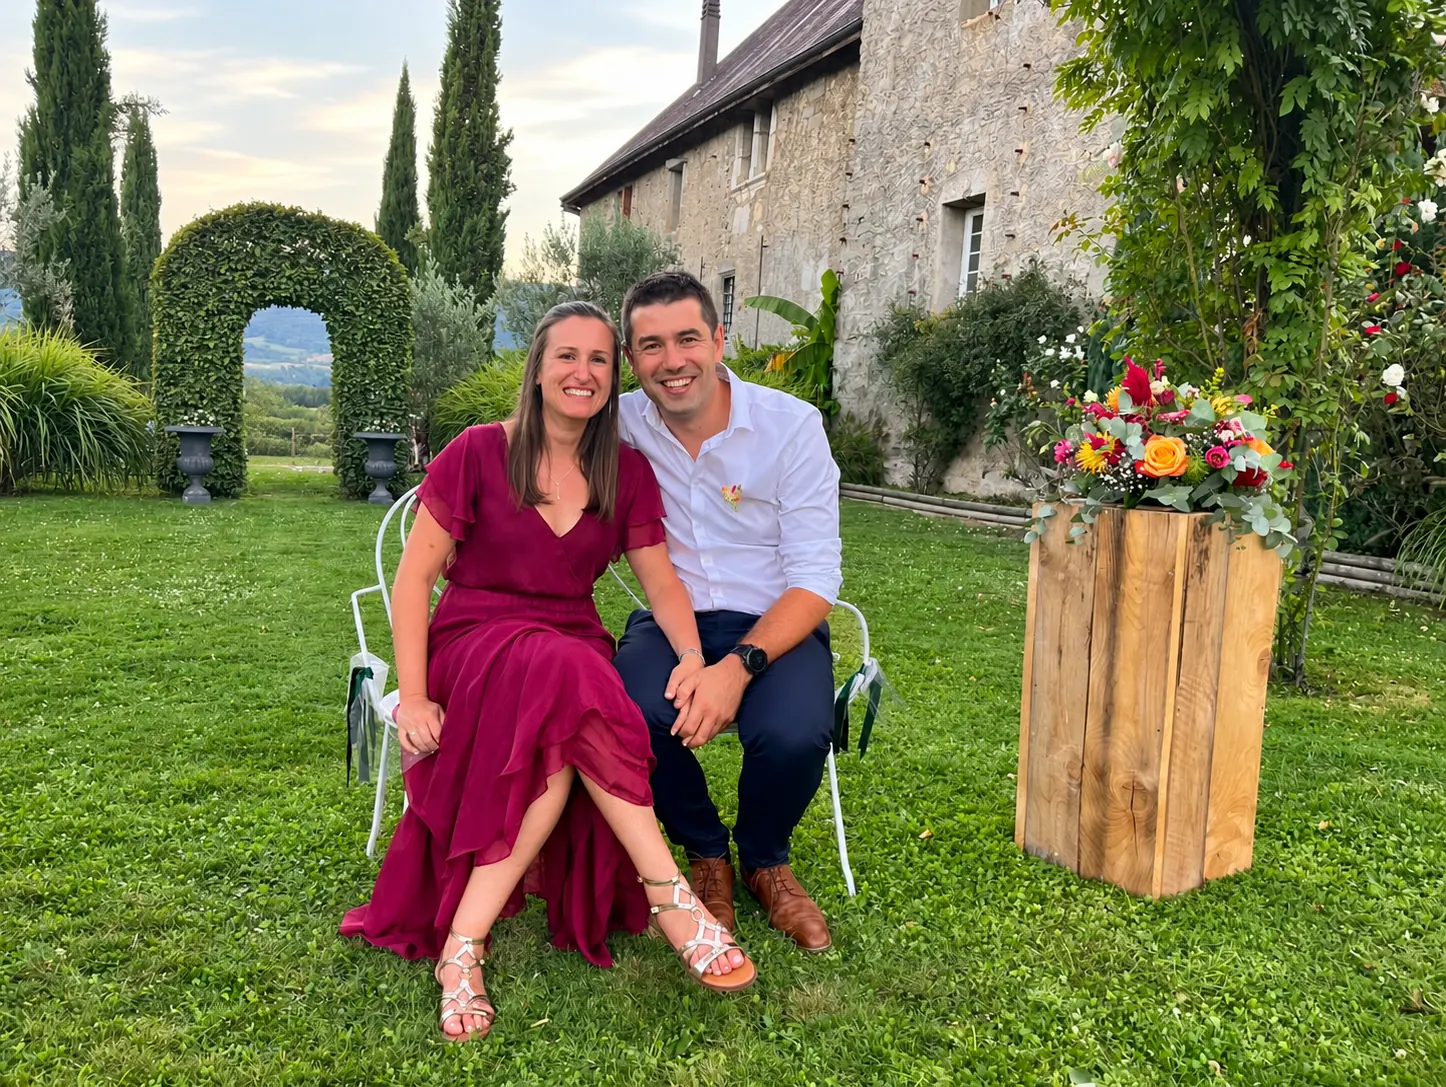
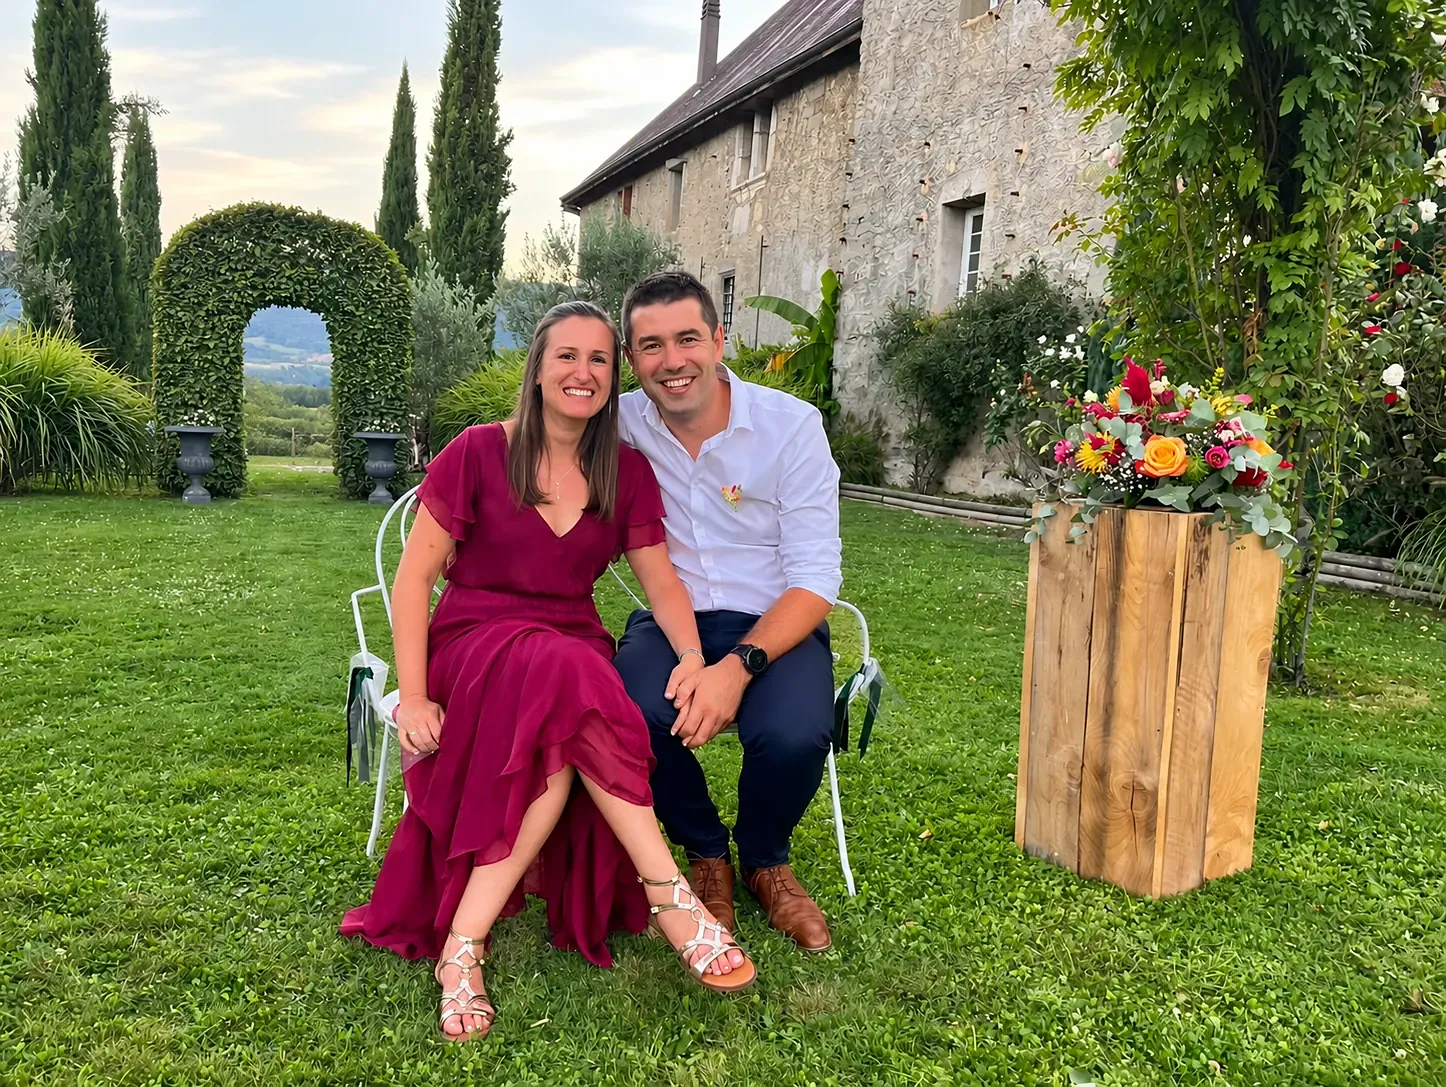
Photo plein écran plus nette ; « Rendez-vous » ne s'affiche plus avant l'ouverture
- Photo du jardin : nouvelles tailles jusqu'à 2560 px, agrandies avec un
  mélange discret d'IA (35 %) pour rester fidèle aux visages, et « sizes »
  qui tient compte du zoom de l'arche et du recadrage en portrait.
- Texte « Rendez-vous » : son opacité suit le défilement, comme l'arche ;
  il ne reste plus visible sur le fond crème quand on remonte vite.
- Skill : script agrandir_photo.py et pièges documentés.

Claude-Session: https://claude.ai/code/session_01HAWTPvL4dY7Bnksh8r4g53

Changed region(s): [[0.9959, 0.0304, 1.0, 0.0607], [0.0, 0.3643, 0.0311, 0.3947]]

diff --git a/.claude/skills/site-mariage-premium/assets/starter/assets/js/main.js b/.claude/skills/site-mariage-premium/assets/starter/assets/js/main.js
@@ -721,12 +721,15 @@
           { scale: 1.25, x: () => { const f = focus(); return f.w / 2 - f.x; }, y: () => { const f = focus(); return f.h * 0.46 - f.y; }, transformOrigin: origin },
           { scale: 1, x: 0, y: 0, transformOrigin: origin, ease: "power2.inOut", duration: 1 }, 0)
         .to($(".reveal-photo__scrim", sec), { opacity: 1, ease: "none", duration: 0.45 }, 0.55);
+      // Le bloc de texte suit le défilement, comme l'arche et le voile : il ne peut jamais rester visible
+      // sur le fond crème quand on remonte vite (l'écriture elle-même se joue dans la chronologie `t`).
+      const textBox = $("[data-rp-text]", sec);
+      if (textBox) tl.fromTo(textBox, { opacity: 0 }, { opacity: 1, ease: "none", duration: 0.1 }, 0.52);
       img.addEventListener("load", () => ST.refresh(), { once: true });
 
       // Texte : écrit à l’encre une fois la photo presque déployée, effacé en remontant
       const text = $("[data-rp-text]", sec);
       if (!text) return;
-      gsap.set(text, { opacity: 1 });
       const words = $$(".rp-w > span", text);
       const t = gsap.timeline({ paused: true, defaults: { ease: "power3.out" } })
         .fromTo($(".rp-over", text), { opacity: 0, letterSpacing: "1em" }, { opacity: 1, letterSpacing: "0.42em", duration: 1.5 }, 0)
@@ -738,7 +741,7 @@
         trigger: sec, invalidateOnRefresh: true,
         start: () => `top+=${Math.round((sec.offsetHeight - window.innerHeight) * 0.62)} top`,
         onEnter: () => t.timeScale(1).play(),
-        onLeaveBack: () => t.timeScale(2).reverse(),
+        onLeaveBack: () => t.timeScale(3).reverse(),
       });
       if (window.scrollY > st.start) t.progress(1); // arrivée directe plus bas (ancre, retour arrière)
     });

diff --git a/assets/js/main.js b/assets/js/main.js
@@ -721,12 +721,15 @@
           { scale: 1.25, x: () => { const f = focus(); return f.w / 2 - f.x; }, y: () => { const f = focus(); return f.h * 0.46 - f.y; }, transformOrigin: origin },
           { scale: 1, x: 0, y: 0, transformOrigin: origin, ease: "power2.inOut", duration: 1 }, 0)
         .to($(".reveal-photo__scrim", sec), { opacity: 1, ease: "none", duration: 0.45 }, 0.55);
+      // Le bloc de texte suit le défilement, comme l'arche et le voile : il ne peut jamais rester visible
+      // sur le fond crème quand on remonte vite (l'écriture elle-même se joue dans la chronologie `t`).
+      const textBox = $("[data-rp-text]", sec);
+      if (textBox) tl.fromTo(textBox, { opacity: 0 }, { opacity: 1, ease: "none", duration: 0.1 }, 0.52);
       img.addEventListener("load", () => ST.refresh(), { once: true });
 
       // Texte : écrit à l’encre une fois la photo presque déployée, effacé en remontant
       const text = $("[data-rp-text]", sec);
       if (!text) return;
-      gsap.set(text, { opacity: 1 });
       const words = $$(".rp-w > span", text);
       const t = gsap.timeline({ paused: true, defaults: { ease: "power3.out" } })
         .fromTo($(".rp-over", text), { opacity: 0, letterSpacing: "1em" }, { opacity: 1, letterSpacing: "0.42em", duration: 1.5 }, 0)
@@ -738,7 +741,7 @@
         trigger: sec, invalidateOnRefresh: true,
         start: () => `top+=${Math.round((sec.offsetHeight - window.innerHeight) * 0.62)} top`,
         onEnter: () => t.timeScale(1).play(),
-        onLeaveBack: () => t.timeScale(2).reverse(),
+        onLeaveBack: () => t.timeScale(3).reverse(),
       });
       if (window.scrollY > st.start) t.progress(1); // arrivée directe plus bas (ancre, retour arrière)
     });

diff --git a/.claude/skills/site-mariage-premium/assets/starter/index.html b/.claude/skills/site-mariage-premium/assets/starter/index.html
@@ -200,8 +200,8 @@
       <div class="reveal-photo__sticky">
         <div class="reveal-photo__frame" data-cursor-heart data-heart-focus="0.433 0.325" data-heart-reach="0.4">
           <img src="assets/img/photos/couple-jardin-1024.webp"
-               srcset="assets/img/photos/couple-jardin-640.webp 640w, assets/img/photos/couple-jardin-1024.webp 1024w, assets/img/photos/couple-jardin-1446.webp 1446w"
-               sizes="100vw" width="1024" height="770" loading="lazy" decoding="async"
+               srcset="assets/img/photos/couple-jardin-640.webp 640w, assets/img/photos/couple-jardin-1024.webp 1024w, assets/img/photos/couple-jardin-1446.webp 1446w, assets/img/photos/couple-jardin-1920.webp 1920w, assets/img/photos/couple-jardin-2560.webp 2560w"
+               sizes="(orientation: portrait) 166vh, 125vw" width="1024" height="770" loading="lazy" decoding="async"
                alt="Clémentine et Romain assis côte à côte dans un jardin fleuri, souriants">
         </div>
         <div class="reveal-photo__scrim" aria-hidden="true"></div>
@@ -683,7 +683,7 @@
   <script src="assets/vendor/ScrollTrigger.min.js?v=05ca5ad8" defer></script>
   <script src="assets/vendor/SplitText.min.js?v=6c4c7716" defer></script>
   <script src="assets/vendor/lenis.min.js?v=b5cf15f0" defer></script>
-  <script src="assets/js/main.js?v=d7b5e164" defer></script>
+  <script src="assets/js/main.js?v=a254e06a" defer></script>
   <!-- SCRIPTS:END -->
 </body>
 </html>

diff --git a/index.html b/index.html
@@ -206,8 +206,8 @@
       <div class="reveal-photo__sticky">
         <div class="reveal-photo__frame" data-cursor-heart data-heart-focus="0.433 0.325" data-heart-reach="0.4">
           <img src="assets/img/photos/couple-jardin-1024.webp"
-               srcset="assets/img/photos/couple-jardin-640.webp 640w, assets/img/photos/couple-jardin-1024.webp 1024w, assets/img/photos/couple-jardin-1446.webp 1446w"
-               sizes="100vw" width="1024" height="770" loading="lazy" decoding="async"
+               srcset="assets/img/photos/couple-jardin-640.webp 640w, assets/img/photos/couple-jardin-1024.webp 1024w, assets/img/photos/couple-jardin-1446.webp 1446w, assets/img/photos/couple-jardin-1920.webp 1920w, assets/img/photos/couple-jardin-2560.webp 2560w"
+               sizes="(orientation: portrait) 166vh, 125vw" width="1024" height="770" loading="lazy" decoding="async"
                alt="Clémentine et Romain assis côte à côte dans un jardin fleuri, souriants">
         </div>
         <div class="reveal-photo__scrim" aria-hidden="true"></div>
@@ -689,7 +689,7 @@
   <script src="assets/vendor/ScrollTrigger.min.js?v=05ca5ad8" defer></script>
   <script src="assets/vendor/SplitText.min.js?v=6c4c7716" defer></script>
   <script src="assets/vendor/lenis.min.js?v=b5cf15f0" defer></script>
-  <script src="assets/js/main.js?v=d7b5e164" defer></script>
+  <script src="assets/js/main.js?v=a254e06a" defer></script>
   <!-- SCRIPTS:END -->
 </body>
 </html>

diff --git a/.claude/skills/site-mariage-premium/assets/starter/environs.html b/.claude/skills/site-mariage-premium/assets/starter/environs.html
@@ -405,7 +405,7 @@
   <script src="assets/vendor/ScrollTrigger.min.js?v=05ca5ad8" defer></script>
   <script src="assets/vendor/SplitText.min.js?v=6c4c7716" defer></script>
   <script src="assets/vendor/lenis.min.js?v=b5cf15f0" defer></script>
-  <script src="assets/js/main.js?v=d7b5e164" defer></script>
+  <script src="assets/js/main.js?v=a254e06a" defer></script>
   <!-- SCRIPTS:END -->
   <script src="assets/vendor/leaflet/leaflet.js?v=1db10cdc" defer></script>
   <script src="assets/js/environs.js?v=7eb4e732" defer></script>

diff --git a/environs.html b/environs.html
@@ -410,7 +410,7 @@
   <script src="assets/vendor/ScrollTrigger.min.js?v=05ca5ad8" defer></script>
   <script src="assets/vendor/SplitText.min.js?v=6c4c7716" defer></script>
   <script src="assets/vendor/lenis.min.js?v=b5cf15f0" defer></script>
-  <script src="assets/js/main.js?v=d7b5e164" defer></script>
+  <script src="assets/js/main.js?v=a254e06a" defer></script>
   <!-- SCRIPTS:END -->
   <script src="assets/vendor/leaflet/leaflet.js?v=1db10cdc" defer></script>
   <script src="assets/js/environs.js?v=7eb4e732" defer></script>

diff --git a/.claude/skills/site-mariage-premium/assets/starter/404.html b/.claude/skills/site-mariage-premium/assets/starter/404.html
@@ -168,7 +168,7 @@
   <script src="assets/vendor/ScrollTrigger.min.js?v=05ca5ad8" defer></script>
   <script src="assets/vendor/SplitText.min.js?v=6c4c7716" defer></script>
   <script src="assets/vendor/lenis.min.js?v=b5cf15f0" defer></script>
-  <script src="assets/js/main.js?v=d7b5e164" defer></script>
+  <script src="assets/js/main.js?v=a254e06a" defer></script>
   <!-- SCRIPTS:END -->
   <script>
     /* Avec <base>, « #contenu » pointerait vers l’accueil : les ancres restent sur cette page */

diff --git a/404.html b/404.html
@@ -173,7 +173,7 @@
   <script src="assets/vendor/ScrollTrigger.min.js?v=05ca5ad8" defer></script>
   <script src="assets/vendor/SplitText.min.js?v=6c4c7716" defer></script>
   <script src="assets/vendor/lenis.min.js?v=b5cf15f0" defer></script>
-  <script src="assets/js/main.js?v=d7b5e164" defer></script>
+  <script src="assets/js/main.js?v=a254e06a" defer></script>
   <!-- SCRIPTS:END -->
   <script>
     /* Avec <base>, « #contenu » pointerait vers l’accueil : les ancres restent sur cette page */

diff --git a/.claude/skills/site-mariage-premium/assets/starter/rsvp.html b/.claude/skills/site-mariage-premium/assets/starter/rsvp.html
@@ -267,7 +267,7 @@
   <script src="assets/vendor/ScrollTrigger.min.js?v=05ca5ad8" defer></script>
   <script src="assets/vendor/SplitText.min.js?v=6c4c7716" defer></script>
   <script src="assets/vendor/lenis.min.js?v=b5cf15f0" defer></script>
-  <script src="assets/js/main.js?v=d7b5e164" defer></script>
+  <script src="assets/js/main.js?v=a254e06a" defer></script>
   <!-- SCRIPTS:END -->
   <script src="assets/js/rsvp.js?v=0e692ced" defer></script>
 </body>

diff --git a/rsvp.html b/rsvp.html
@@ -272,7 +272,7 @@
   <script src="assets/vendor/ScrollTrigger.min.js?v=05ca5ad8" defer></script>
   <script src="assets/vendor/SplitText.min.js?v=6c4c7716" defer></script>
   <script src="assets/vendor/lenis.min.js?v=b5cf15f0" defer></script>
-  <script src="assets/js/main.js?v=d7b5e164" defer></script>
+  <script src="assets/js/main.js?v=a254e06a" defer></script>
   <!-- SCRIPTS:END -->
   <script src="assets/js/rsvp.js?v=0e692ced" defer></script>
 </body>

diff --git a/.claude/skills/site-mariage-premium/assets/starter/hebergements.html b/.claude/skills/site-mariage-premium/assets/starter/hebergements.html
@@ -502,7 +502,7 @@
   <script src="assets/vendor/ScrollTrigger.min.js?v=05ca5ad8" defer></script>
   <script src="assets/vendor/SplitText.min.js?v=6c4c7716" defer></script>
   <script src="assets/vendor/lenis.min.js?v=b5cf15f0" defer></script>
-  <script src="assets/js/main.js?v=d7b5e164" defer></script>
+  <script src="assets/js/main.js?v=a254e06a" defer></script>
   <!-- SCRIPTS:END -->
 </body>
 </html>

diff --git a/.claude/skills/site-mariage-premium/assets/starter/temoins.html b/.claude/skills/site-mariage-premium/assets/starter/temoins.html
@@ -275,7 +275,7 @@
   <script src="assets/vendor/ScrollTrigger.min.js?v=05ca5ad8" defer></script>
   <script src="assets/vendor/SplitText.min.js?v=6c4c7716" defer></script>
   <script src="assets/vendor/lenis.min.js?v=b5cf15f0" defer></script>
-  <script src="assets/js/main.js?v=d7b5e164" defer></script>
+  <script src="assets/js/main.js?v=a254e06a" defer></script>
   <!-- SCRIPTS:END -->
 </body>
 </html>
